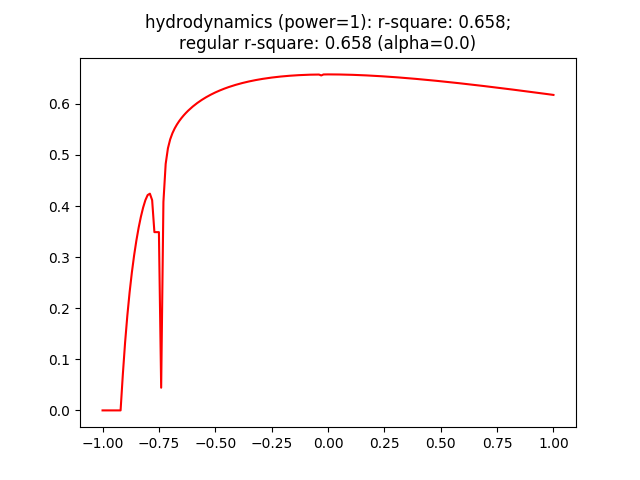
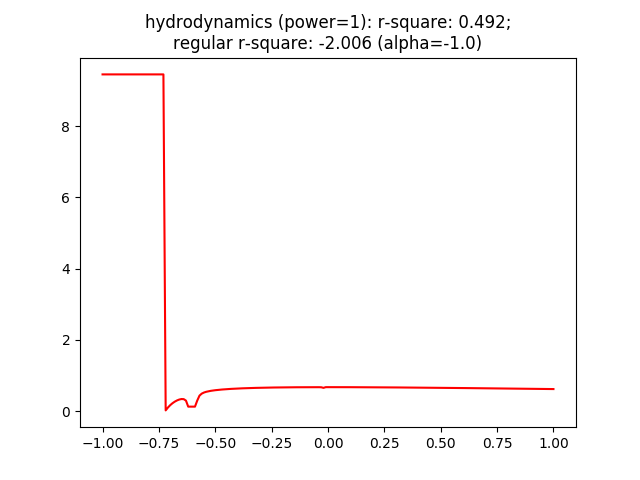
update #3, #4

diff --git a/3-4hw.py b/3-4hw.py
@@ -8,7 +8,7 @@ def r_squared(real_y, predict_y):
     return 1 - np.sum((real_y - predict_y) ** 2) / np.sum((real_y - real_y.mean()) ** 2)
 
 
-power = 6
+power = 11
 
 ########################################################################################################################
 
@@ -31,18 +31,18 @@ X = make_x(X, power)
 x = make_x(x, power)
 
 W = (np.linalg.inv(X.T.dot(X)).dot(X.T)).dot(Y)
-predict = x.dot(W)
-rsquare = r_squared(y, predict)
+rsquare = r_squared(y, x.dot(W))
 print(rsquare)
 
 
 max_rsquare = 0
 max_alpha = 0
 r_square = np.empty(201)
+I = np.eye(power + 1)
 for i in range(201):
     alpha = 0.01 * (i - 100)
-    W_reg = (np.linalg.inv(X.T.dot(X) + alpha * np.eye(power + 1)).dot(X.T)).dot(Y)
-    r_square[i] = r_squared(y, x.dot(W_reg))
+    W_reg = (np.linalg.inv(X.T.dot(X) + alpha * I).dot(X.T)).dot(Y)
+    r_square[i] = r_squared(Y, X.dot(W_reg))
     if r_square[i] < 0:
         r_square[i] = r_square[i - 1]
     if max_rsquare < r_square[i]:
@@ -50,12 +50,13 @@ for i in range(201):
         max_alpha = alpha
 print(max_rsquare, max_alpha)
 
-plt.plot(0.01 * (np.arange(201) - 100), r_square, 'r')
-plt.title(f'noisysine (power={power}): ' + "r-square: %.3f;\n" % rsquare + "regular r-square: %.3f " % max_rsquare + f'(alpha={max_alpha})')
-plt.show()
+W_reg = (np.linalg.inv(X.T.dot(X) + max_alpha * I).dot(X.T)).dot(Y)
+reg_rsquare = r_squared(y, x.dot(W_reg))
+print(reg_rsquare)
 
-alpha = max_alpha
-W_reg = (np.linalg.inv(X.T.dot(X) + alpha * np.eye(power + 1)).dot(X.T)).dot(Y)
+plt.plot(0.01 * (np.arange(201) - 100), r_square, 'r')
+plt.title(f'noisysine (power={power}): ' + "r-square: %.3f;\n" % rsquare + "regular r-square: %.3f " % reg_rsquare + f'(alpha={max_alpha})')
+plt.show()
 
 plt.plot(data, labels, '.')
 plt.plot(data, make_x(data, power).dot(W), 'g')
@@ -75,12 +76,10 @@ def make_x(x, power=1):
 # hydrodynamics
 df = pd.read_csv('hydrodynamics.csv')
 df = df.values.astype(np.float32)
-data = df[:, :6]
+data = make_x(df[:, :6], power)
 labels = df[:, 6]
 
 X, x, Y, y = train_test_split(data, labels, train_size=0.8, test_size=0.2)
-X = make_x(X, power)
-x = make_x(x, power)
 
 W = (np.linalg.inv(X.T.dot(X)).dot(X.T)).dot(Y)
 rsquare = r_squared(y, x.dot(W))
@@ -90,11 +89,11 @@ print(rsquare)
 max_rsquare = 0
 max_alpha = 0
 r_square = np.empty(201)
-I = np.eye(X.shape[1] * power + 1)
+I = np.eye(X.shape[1])
 for i in range(201):
     alpha = 0.01 * (i - 100)
     W_reg = (np.linalg.inv(X.T.dot(X) + alpha * I).dot(X.T)).dot(Y)
-    r_square[i] = r_squared(y, x.dot(W_reg))
+    r_square[i] = r_squared(Y, X.dot(W_reg))
     if r_square[i] < 0:
         r_square[i] = r_square[i - 1]
     if max_rsquare < r_square[i]:
@@ -102,6 +101,10 @@ for i in range(201):
         max_alpha = alpha
 print(max_rsquare, max_alpha)
 
+W_reg = (np.linalg.inv(X.T.dot(X) + max_alpha * I).dot(X.T)).dot(Y)
+reg_rsquare = r_squared(y, x.dot(W_reg))
+print(reg_rsquare)
+
 plt.plot(0.01 * (np.arange(201) - 100), r_square, 'r')
-plt.title(f'hydrodynamics (power={power}): ' + "r-square: %.3f;\n" % rsquare + "regular r-square: %.3f " % max_rsquare + f'(alpha={max_alpha})')
+plt.title(f'hydrodynamics (power={power}): ' + "r-square: %.3f;\n" % rsquare + "regular r-square: %.3f " % reg_rsquare + f'(alpha={max_alpha})')
 plt.show()
